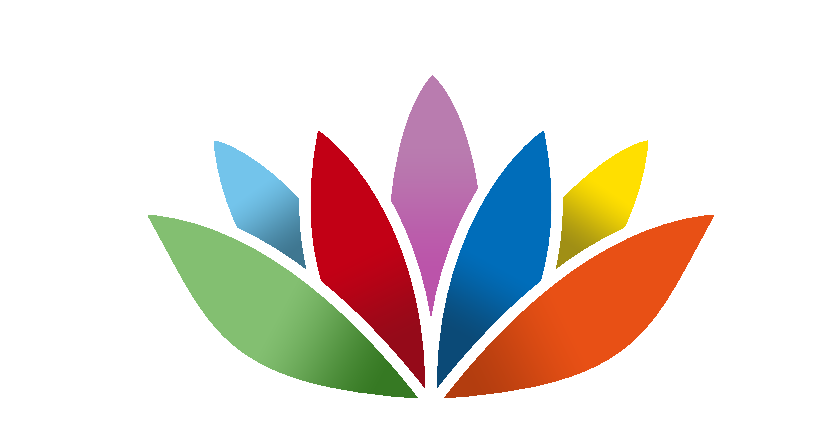
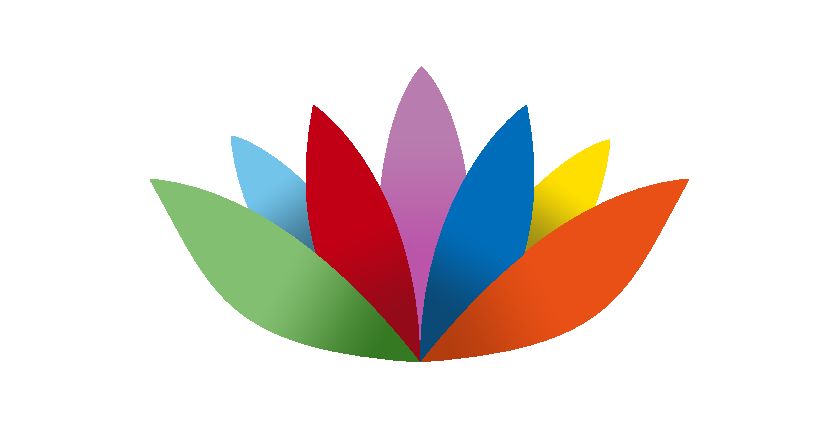
feat: sign-up

Changed region(s): [[0.1548, 0.1508, 0.8667, 0.935]]

diff --git a/src/app/pages/Sign-up/index.tsx b/src/app/pages/Sign-up/index.tsx
@@ -1,0 +1,129 @@
+import { useEffect, useState } from 'react';
+import { toast } from 'react-toastify';
+import { useNavigate } from 'react-router-dom';
+import useSignUp from '../../shared/hooks/api/useSignUp';
+import lotusFlower from '../../assets/images/lotusflower-spaced.png';
+import { Button, Input, Loading, Logo, P } from '../../shared/components/Auth';
+import { AuthLayout } from '../../shared/layouts/Auth';
+import { Link } from 'react-router-dom';
+import { restartTime } from '../Sign-in';
+
+export default function SignUp() {
+  const [email, setEmail] = useState('');
+  const [name, setName] = useState('');
+  const [password, setPassword] = useState('');
+  const [confirmPassword, setConfirmPassword] = useState('');
+  const { signUpLoading, signUp } = useSignUp();
+  const navigate = useNavigate();
+
+  useEffect(() => restartTime(), []);
+
+  async function submit(event: React.FormEvent<HTMLFormElement>) {
+    event.preventDefault();
+
+    if (password !== confirmPassword) {
+      toast('As senhas devem ser iguais!');
+    } else {
+      try {
+        await signUp(email, password);
+        toast('Inscrito com sucesso! Por favor, faça login.');
+        navigate('/sign-in');
+      } catch (error) {
+        toast('Não foi possível fazer o cadastro!');
+      }
+    }
+  }
+
+  return (
+    <AuthLayout>
+      <Logo className = 'logo' loading = { signUpLoading }>
+        <img src={lotusFlower} alt=""/>
+        <h1>FamilyPeace</h1>
+      </Logo>
+      {!signUpLoading ? (
+        <>
+          <form action="" onSubmit={submit}>
+            <Input
+              name="name"
+              type="name"
+              placeholder="name"
+              value={name}
+              onChange={(e) => setName(e.target.value)}
+              required
+            />
+            <Input
+              name="email"
+              type="email"
+              placeholder="email"
+              value={email}
+              onChange={(e) => setEmail(e.target.value)}
+              required
+            />
+            <Input
+              name="password"
+              type="password"
+              placeholder="password"
+              value={password}
+              onChange={(e) => setPassword(e.target.value)}
+              required
+            />
+            <Input
+              name="password"
+              type="password"
+              placeholder="confirm password"
+              value={confirmPassword}
+              onChange={(e) => setConfirmPassword(e.target.value)}
+              required
+            />
+            <Button loading= { signUpLoading } >Sign-up</Button>
+          </form>
+          <Link to="/sign-in">
+            <P>Already signed-up? Sign-in!</P>
+          </Link>
+        </>
+      ) : (
+        <>
+          <form action="" onSubmit={submit}>
+            <Input
+              name="name"
+              type="name"
+              placeholder="name"
+              value={name}
+              onChange={(e) => setName(e.target.value)}
+              disabled
+            />
+            <Input
+              name="email"
+              type="email"
+              placeholder="email"
+              value={email}
+              onChange={(e) => setEmail(e.target.value)}
+              disabled
+            />
+            <Input
+              name="password"
+              type="password"
+              placeholder="password"
+              value={password}
+              onChange={(e) => setPassword(e.target.value)}
+              disabled
+            />
+            <Input
+              name="password"
+              type="password"
+              placeholder="confirm password"
+              value={confirmPassword}
+              onChange={(e) => setConfirmPassword(e.target.value)}
+              disabled
+            />
+            <Button loading={signUpLoading} disabled><Loading /></Button>
+          </form>
+          <Link to="/sign-in">
+            <P>Already signed-up? Sign-in!</P>
+          </Link>
+        </>
+      )}
+    </AuthLayout>
+  );
+}
+

diff --git a/src/app/pages/Sign-in/index.tsx b/src/app/pages/Sign-in/index.tsx
@@ -2,13 +2,13 @@ import { useContext, useState } from 'react';
 import { Link } from 'react-router-dom';
 import { useNavigate } from 'react-router-dom';
 import { toast } from 'react-toastify';
-import { Button, Check, Input, Label, loading, Logo, P } from '../../shared/components/Auth';
+import { Button, Check, Input, Label, Loading, Logo, P } from '../../shared/components/Auth';
 import { UserContext } from '../../shared/contexts';
 import { useSignIn } from '../../shared/hooks/api/useSignIn';
 import { AuthLayout } from '../../shared/layouts/Auth';
 import checkEmpty from '../../assets/images/check-empty.png';
 import checkMarked from '../../assets/images/check-marked.png';
-import lotusFlower from '../../assets/images/lotusflower.png';
+import lotusFlower from '../../assets/images/lotusflower-spaced.png';
 let timeMs: number;
 
 export const SignIn = () => {
@@ -52,7 +52,7 @@ export const SignIn = () => {
             <Input
               name="password"
               type="password"
-              placeholder="senha"
+              placeholder="password"
               value={password}
               onChange={(e) => setPassword(e.target.value)}
               required
@@ -84,12 +84,12 @@ export const SignIn = () => {
             <Input
               name="password"
               type="password"
-              placeholder="senha"
+              placeholder="password"
               value={password}
               onChange={(e) => setPassword(e.target.value)}
               disabled
             />
-            <Button loading={signInLoading} disabled>{loading}</Button>
+            <Button loading={signInLoading} disabled><Loading /></Button>
             <Label>
               Keep Me Logged In!
               <Check
@@ -106,7 +106,18 @@ export const SignIn = () => {
   );
 };
 
+export function restartTime() {
+  timeMs = 400;
+  console.log('oi');
+}
+
 export function time() {
   timeMs += 50;
+  console.log(timeMs);
   return timeMs + 'ms';
+}
+
+export function timeBefore() {
+  const timeBeforeMs = timeMs - 50;
+  return timeBeforeMs + 'ms';
 }

diff --git a/src/app/shared/components/Auth/index.tsx b/src/app/shared/components/Auth/index.tsx
@@ -1,8 +1,8 @@
 import styled from 'styled-components';
-import { deslizarCima, tremerZoom } from '../../animations/animations';
+import { deslizarCima, VanishBeforeAnimation, ZoomInLeftAnimation } from '../../animations/animations';
 import { ThreeDots } from 'react-loader-spinner';
 import Container from '../Container';
-import { time } from '../../../pages/Sign-in';
+import { time, timeBefore } from '../../../pages/Sign-in';
 
 export const StyledContainer = styled(Container)`
   display: flex;
@@ -20,18 +20,19 @@ export const StyledContainer = styled(Container)`
   border: 1px solid rgba(255, 255, 255, 0.75);
   form{
     display: flex;
-        flex-direction: column;
-        gap: 6px;
-        width: 100%;
-        gap: 10px;
+    flex-direction: column;
+    gap: 6px;
+    width: 100%;
+    gap: 10px;
   }
   &:hover{
     background: rgba(75, 120, 155, 0.4);
   }
 `;
+
 interface DivProps {
   loading: boolean;
-}
+};
 
 export const Logo = styled.div<DivProps>`
   h1{
@@ -46,7 +47,7 @@ export const Logo = styled.div<DivProps>`
     height: 50px;
     margin-bottom: -25px;
   }
-  animation: ${(props) => (props.loading ? 'none' :deslizarCima)} ${time}, ${tremerZoom} ${'500ms'} 1 ${time};
+  animation: ${(props) => (props.loading ? 'none' : VanishBeforeAnimation)} ${time}, ${ZoomInLeftAnimation} ${'500ms'} 1 ${timeBefore};
   opacity: 0.7;
   margin-bottom: 30px;
   &:hover{
@@ -141,7 +142,7 @@ export const P = styled.p`
   }
 `;
 
-export const loading = (
+export const Loading = () => (
   <ThreeDots
     height="80"
     width="80"

diff --git a/src/app/shared/components/Page.ts b/src/app/shared/components/Page.ts
@@ -11,16 +11,22 @@ export const Page = styled.div<DivProps>`
     0% {
         background-position: 0% 50%
     }
-    50% {
-        background-position: 100% 50%
+    25% {
+        background-position: 50% 0%
     }
-    100% {
-        background-position: 0% 50%
+    50%{
+      background-position: 100% 50%
     }
-}
-  background: linear-gradient(-45deg, #ee7752, #e73c7e, #23a6d5, #23d5ab);
-  animation: Gradient 7s ease infinite;
-  background-size: 200% 200%;
+    75% {
+        background-position: 50% 100%
+    }
+    100%{
+      background-position: 0% 50%
+    }
+  }
+  background: linear-gradient(-45deg, rgba(51,215,228,1) 17%, rgba(107,57,205,1) 41%, rgba(13,177,204,1) 65%, rgba(166,49,204,1) 85%);
+  animation: Gradient 15s ease infinite;
+  background-size: 300% 300%;
   box-sizing: border-box;
   height: 100vh;
   width: 100vw;

diff --git a/src/app/shared/animations/animations.ts b/src/app/shared/animations/animations.ts
@@ -158,3 +158,25 @@ export const quicarDentro = keyframes`
             transform: scale3d(1, 1, 1);
         }
     `;
+
+export const ZoomInLeftAnimation = keyframes`
+    from {
+        opacity: 0;
+        transform: scale3d(.1, .1, .1) translate3d(-1000px, 0, 0);
+        animation-timing-function: cubic-bezier(0.550, 0.055, 0.675, 0.190);
+    }
+    60% {
+        opacity: 1;
+        transform: scale3d(.475, .475, .475) translate3d(10px, 0, 0);
+        animation-timing-function: cubic-bezier(0.175, 0.885, 0.320, 1);
+    }
+`;
+
+export const VanishBeforeAnimation = keyframes`
+    from {
+        opacity: 0;
+    }
+    to {
+        opacity: 0;
+    }
+`;

diff --git a/src/app/routes/index.tsx b/src/app/routes/index.tsx
@@ -7,6 +7,7 @@ import {
 import { ToastContainer } from 'react-toastify';
 import 'react-toastify/dist/ReactToastify.css';
 import { SignIn } from '../pages/Sign-in';
+import SignUp from '../pages/Sign-up';
 import { UserProvider } from '../shared/contexts';
 
 export const Routes = () => {
@@ -16,6 +17,7 @@ export const Routes = () => {
       <UserProvider>
         <Paths>
           <Route path="/sign-in" element={<SignIn />} />
+          <Route path="/sign-up" element={<SignUp />} />
           <Route path="*" element={<Navigate to="/sign-in" />} />
         </Paths>
       </UserProvider>

diff --git a/src/app/shared/hooks/api/useSignUp.ts b/src/app/shared/hooks/api/useSignUp.ts
@@ -1,0 +1,17 @@
+import useAsync from '../useAsync';
+
+import * as signUpApi from '../../services/signUpApi';
+
+export default function useSignUp() {
+  const {
+    loading: signUpLoading,
+    error: signUpError,
+    act: signUp,
+  } = useAsync(signUpApi.signUp, false);
+
+  return {
+    signUpLoading,
+    signUpError,
+    signUp,
+  };
+}

diff --git a/src/app/shared/services/signUpApi.ts b/src/app/shared/services/signUpApi.ts
@@ -1,0 +1,6 @@
+import api from './api';
+
+export async function signUp(email: string, password: string) {
+  const response = await api.post('/sign-up', { email, password });
+  return response.data;
+}
